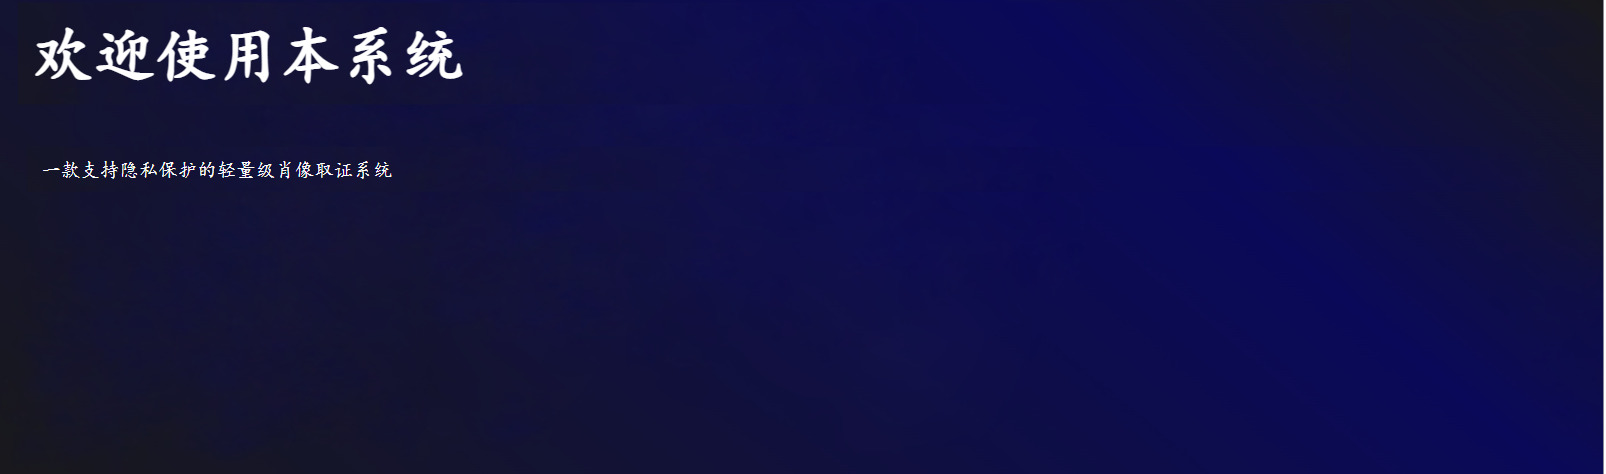
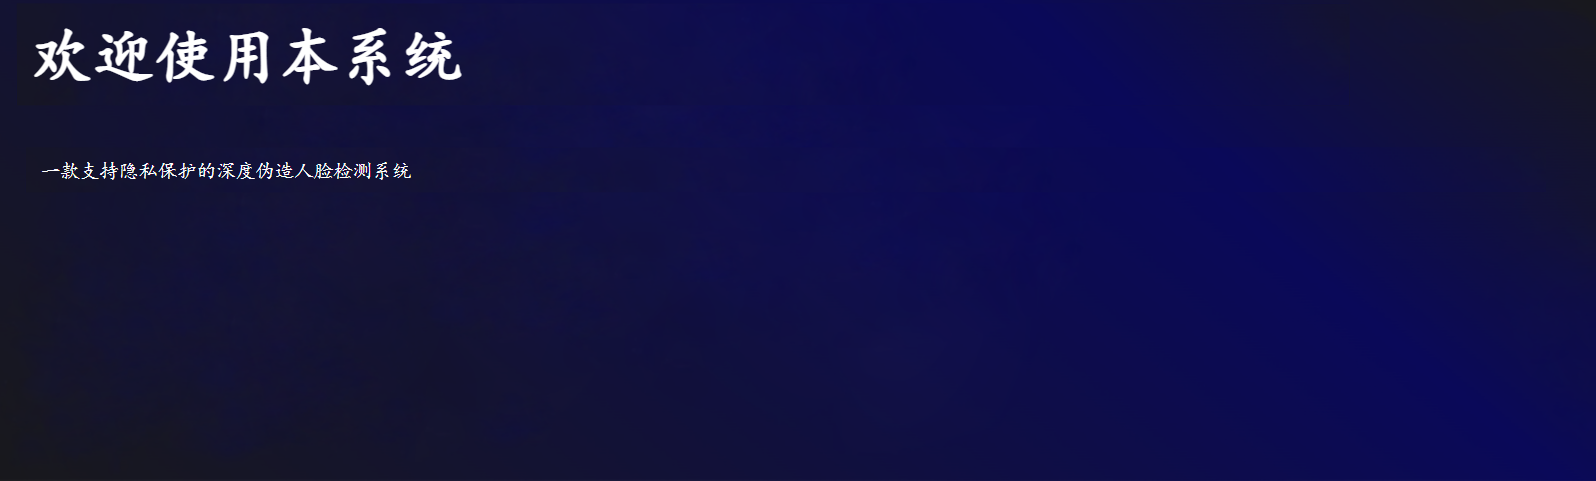
new design

Changed region(s): [[0.9825, 0.0, 1.0, 1.0], [0.0307, 0.0591, 0.307, 0.1772], [0.0307, 0.3249, 0.2763, 0.384]]

diff --git a/src/components/History/FaceHistory.jsx b/src/components/History/FaceHistory.jsx
@@ -14,32 +14,43 @@ const columns = [
         width: '10%',
     },
     {
-        title: '分解1',
-        dataIndex: 'pictureOnePosition',
+        title: '文件名',
+        dataIndex: 'fileName',
         width: '20%',
         render: (text) => {
-            console.log(text)
-            return text !== null ? <Image src={text} width='80px' height='80px' preview='false'
[1 lines of base64/hex data omitted]
-                : <Image
-                    width='80px' height='80px' preview='false'
-                    src={SecretImage}
-                />
+            return <div>
+                {text}
+            </div>
+
         }
     },
-    {
-        title: '分解2',
-        dataIndex: 'pictureTwoPosition',
-        width: '20%',
-        render: (text) => {
-            return text !== null ? <Image src={text} width='80px' height='80px' preview='false'
[1 lines of base64/hex data omitted]
-                : <Image
-                    width='80px' height='80px' preview='false'
-                    src={SecretImage}
-                />
-        }
-    },
+    // {
+    //     title: '分解1',
+    //     dataIndex: 'pictureOnePosition',
+    //     width: '20%',
+    //     render: (text) => {
+    //         console.log(text)
+    //         return text !== null ? <Image src={text} width='80px' height='80px' preview='false'
[1 lines of base64/hex data omitted]
+    //             : <Image
+    //                 width='80px' height='80px' preview='false'
+    //                 src={SecretImage}
+    //             />
+    //     }
+    // },
+    // {
+    //     title: '分解2',
+    //     dataIndex: 'pictureTwoPosition',
+    //     width: '20%',
+    //     render: (text) => {
+    //         return text !== null ? <Image src={text} width='80px' height='80px' preview='false'
[1 lines of base64/hex data omitted]
+    //             : <Image
+    //                 width='80px' height='80px' preview='false'
+    //                 src={SecretImage}
+    //             />
+    //     }
+    // },
     {
         title: '开始时间',
         dataIndex: 'startTime',
@@ -59,7 +70,7 @@ const columns = [
             }
             text = text.split(";")
             return <div>
-                结果1：{text[0]}<br/>
+                结果1：{text[0]}&nbsp;&nbsp;&nbsp;&nbsp;&nbsp;&nbsp;&nbsp;&nbsp;&nbsp;
                 结果2：{text[1]}
             </div>
         }
@@ -87,7 +98,7 @@ const FaceHistory = ({getFaceHistory, faceHistory}) => {
 
     return (
         <Typography>
-            <Title>肖像取证历史记录</Title>
+            <Title>历史检测记录</Title>
             <Table columns={columns}
                    dataSource={faceHistory.content}
                    pagination={{

diff --git a/src/components/Layout/Sider.jsx b/src/components/Layout/Sider.jsx
@@ -27,10 +27,10 @@ const LeftMenu = () => {
             <Link to={'/'}>欢迎</Link>
         </Menu.Item>
         <Menu.Item key="/splicingDetection" icon={<BarChartOutlined/>}>
-            <Link to={'/splicingDetection'}>支持隐私保护的肖像取证</Link>
+            <Link to={'/splicingDetection'}>支持隐私保护的图片检测</Link>
         </Menu.Item>
         <Menu.Item key="/videoDetection" icon={<LineChartOutlined/>}>
-            <Link to={'/videoDetection'}>支持隐私保护的视频取证</Link>
+            <Link to={'/videoDetection'}>支持隐私保护的视频检测</Link>
         </Menu.Item>
         <Menu.Item key="/encryptedImagAnalysis" icon={<MonitorOutlined/>}>
             <Link to={'/encryptedImagAnalysis'}>加密算法可视化分析</Link>

diff --git a/src/components/Splicing/SplicingIndex.jsx b/src/components/Splicing/SplicingIndex.jsx
@@ -18,7 +18,7 @@ const SplicingIndex = ({
                        }) => (
     <div>
         <UploadImage setDetectionId={setDetectionId} setClear={setClear}/>
-        <Divider orientation="left" style={{fontWeight: 700}}>支持隐私保护的肖像图片检测</Divider>
+        <Divider orientation="left" style={{fontWeight: 700}}>支持隐私保护的图片检测</Divider>
         <Detection beginDetection={beginDetection}
                    getDetectionDetail={getDetectionDetail} result={result} textAreaValue={textAreaValue}
                    current={current}

diff --git a/src/components/Layout/index.jsx b/src/components/Layout/index.jsx
@@ -49,7 +49,7 @@ class FaceLayout extends React.Component {
                        }}>
                     <Logo>
                         <img src={img} alt={'logo'} className="logo"/>
-                        <div style={{textAlign:'center'}}>支持隐私保护的肖像取证系统</div>
+                        <div style={{textAlign:'center', fontSize:'24px'}}>支持隐私保护的深度伪造人脸检测系统</div>
                     </Logo>
                     <LeftMenu/>
                 </Sider>

diff --git a/src/constant/Header.js b/src/constant/Header.js
@@ -31,11 +31,11 @@ const Header = () => (
         </Col>
         <Col>
             <TitleContainer>
-                支持隐私保护的肖像取证系统
+                支持隐私保护的深度伪造人脸检测系统
             </TitleContainer>
             <br/>
             <DescriptionContainer>
-                数字取证教育部工程研究中心
+                信源科技团队—您的隐私卫士
             </DescriptionContainer>
         </Col>
     </Row>

diff --git a/src/components/HomePage.jsx b/src/components/HomePage.jsx
@@ -57,7 +57,7 @@ const HomePage = () => (
                         </Panel>
                     </Collapse>
                     <Collapse defaultActiveKey="1">
-                        <Panel header="支持隐私保护的肖像取证" key="5">
+                        <Panel header="支持隐私保护的人脸图片检测" key="5">
                             <p>&nbsp;&nbsp;{facejc}</p>
                         </Panel>
                     </Collapse>
